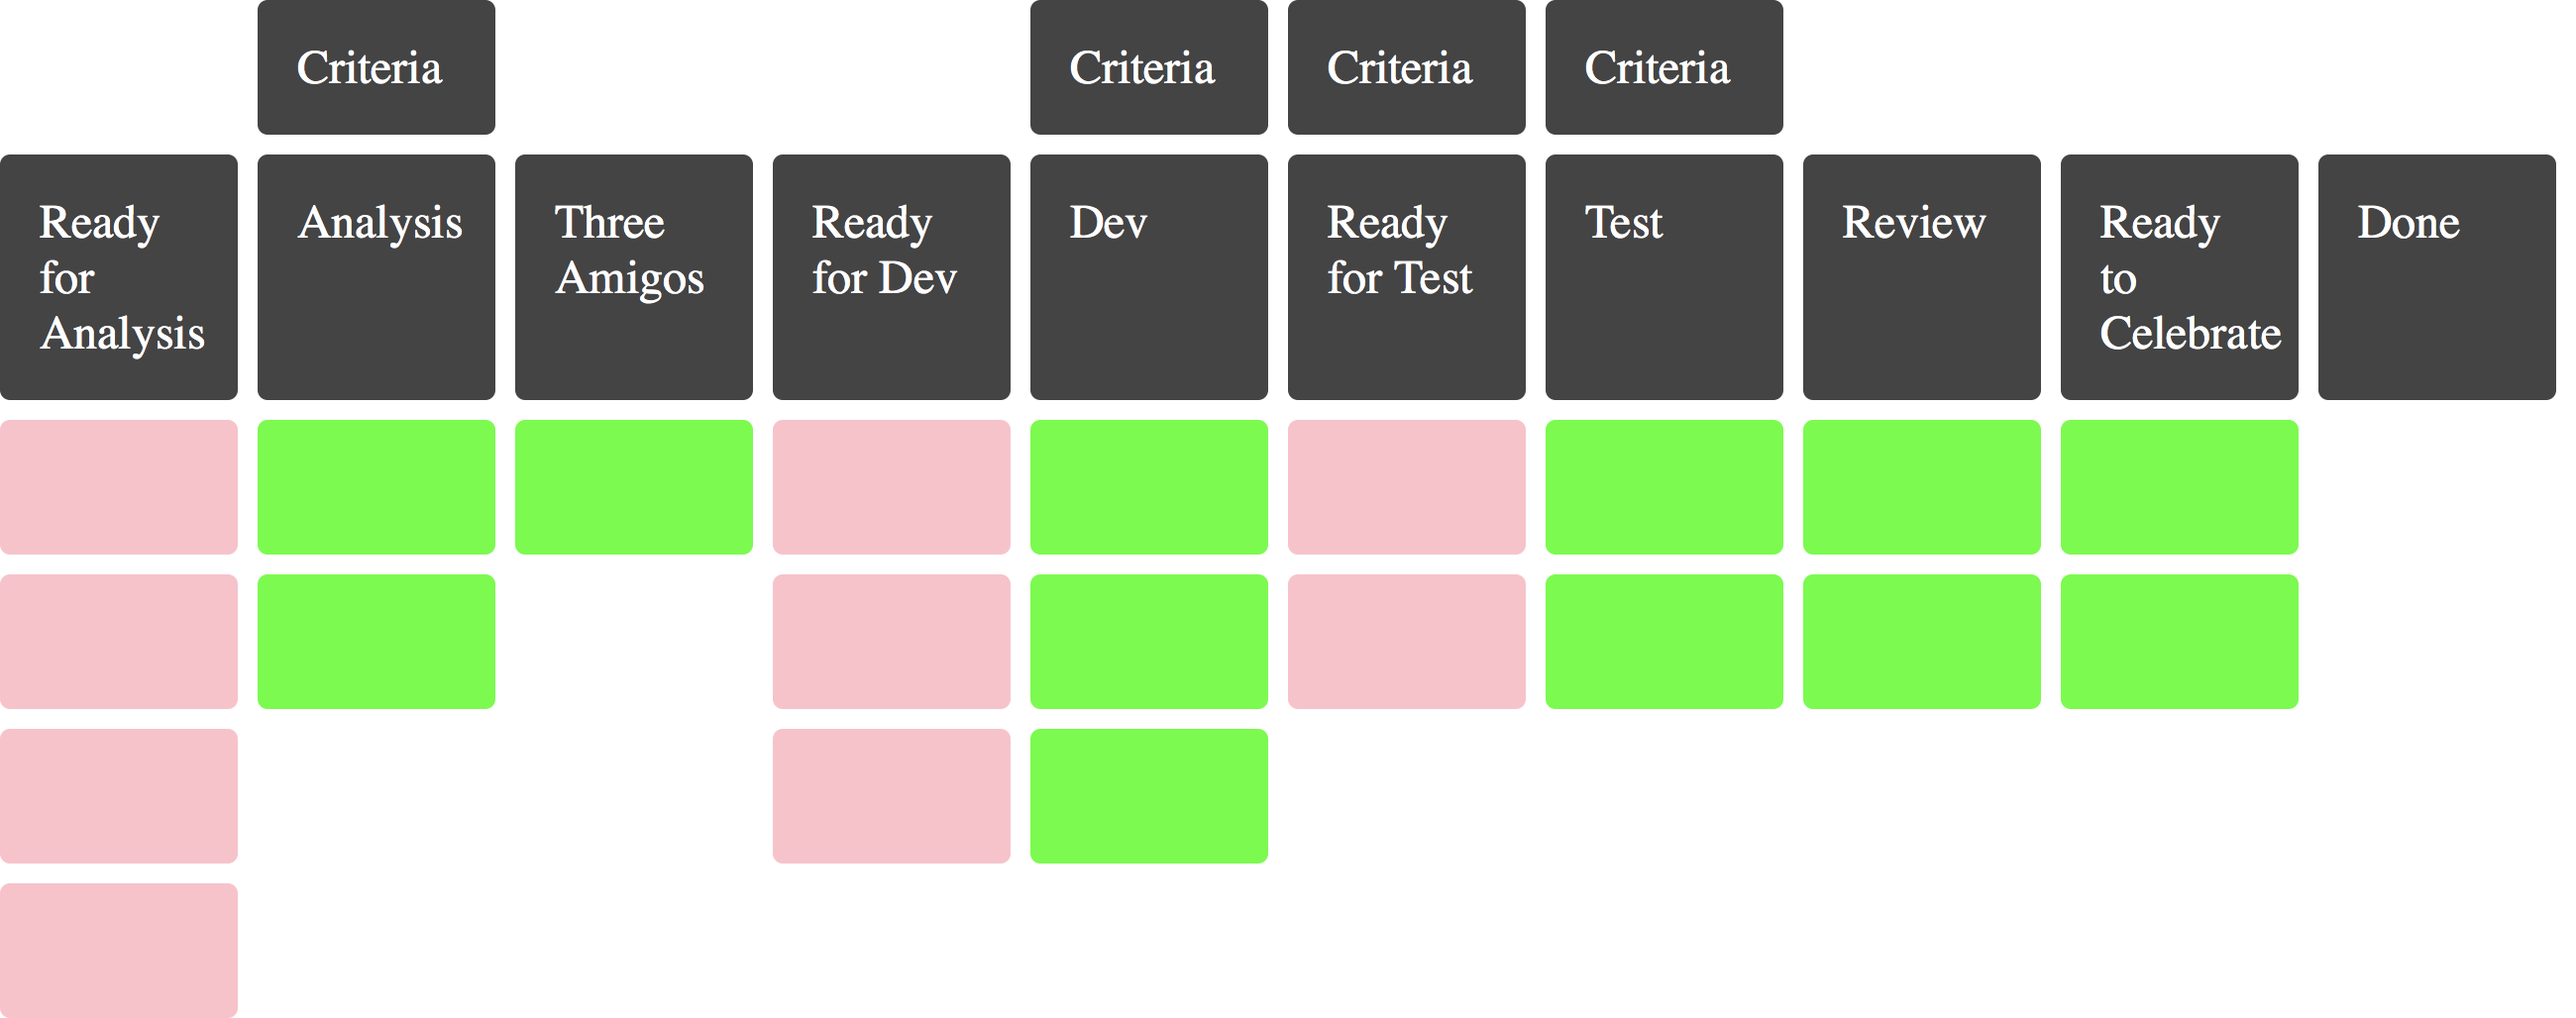
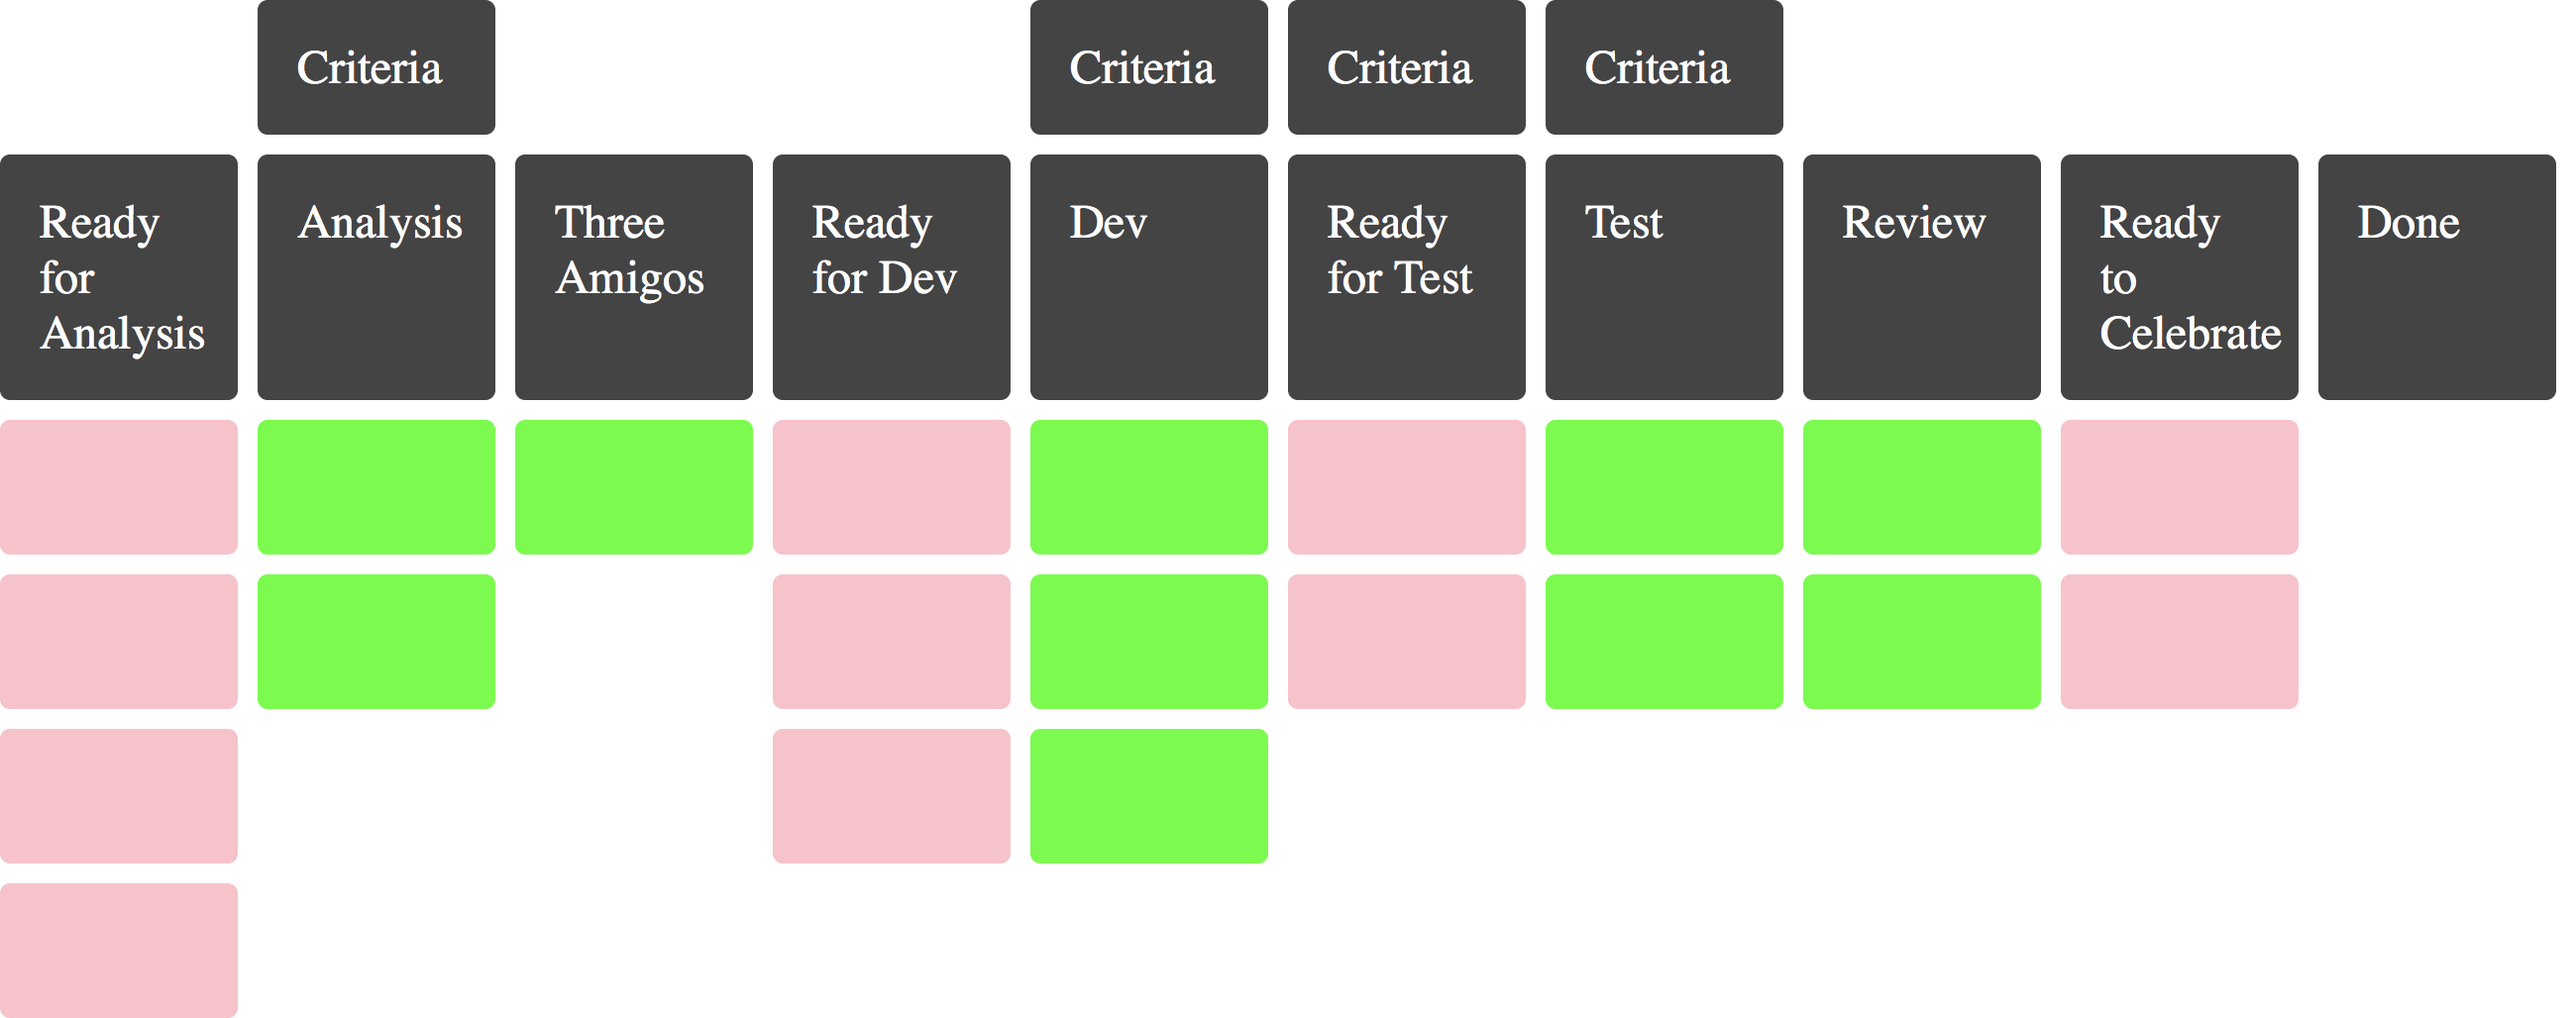
Made ready to celebrate an inactive column

Changed region(s): [[0.7788, 0.4047, 0.9035, 0.716]]

diff --git a/boards/disaster.html b/boards/disaster.html
@@ -116,8 +116,8 @@
     <div class="active-space col-review work1">&nbsp;</div>
     <div class="active-space col-review work2">&nbsp;</div>
 
-    <div class="active-space col-celebrate work1">&nbsp;</div>
-    <div class="active-space col-celebrate work2">&nbsp;</div>
+    <div class="inactive-space col-celebrate work1">&nbsp;</div>
+    <div class="inactive-space col-celebrate work2">&nbsp;</div>
 
 
 

diff --git a/boards/three-amigos.html b/boards/three-amigos.html
@@ -100,8 +100,8 @@
     <div class="active-space col-test work1">&nbsp;</div>
     <div class="active-space col-test work2">&nbsp;</div>
 
-    <div class="ticket col-celebrate work1">&nbsp;</div>
-    <div class="active-space col-celebrate work2">&nbsp;</div>
+    <div class="inactive-space col-celebrate work1">&nbsp;</div>
+    <div class="inactive-space col-celebrate work2">&nbsp;</div>
 
 
 

diff --git a/boards/logjam.html b/boards/logjam.html
@@ -116,8 +116,8 @@
     <div class="ticket col-review work1">Ticket</div>
     <div class="ticket col-review work2">Ticket</div>
 
-    <div class="active-space col-celebrate work1">&nbsp;</div>
-    <div class="active-space col-celebrate work2">&nbsp;</div>
+    <div class="inactive-space col-celebrate work1">&nbsp;</div>
+    <div class="inactive-space col-celebrate work2">&nbsp;</div>
 
 
 

diff --git a/boards/rework.html b/boards/rework.html
@@ -94,8 +94,8 @@
     <div class="blocker col-test work1">Ticket</div>
     <div class="blocker col-test work2">Ticket</div>
 
-    <div class="active-space col-celebrate work1">&nbsp;</div>
-    <div class="active-space col-celebrate work2">&nbsp;</div>
+    <div class="inactive-space col-celebrate work1">&nbsp;</div>
+    <div class="inactive-space col-celebrate work2">&nbsp;</div>
 
 
 

diff --git a/boards/final.html b/boards/final.html
@@ -122,8 +122,8 @@
 
     <div class="inactive-space col-playback work1">&nbsp;</div>
 
-    <div class="active-space col-celebrate work1">&nbsp;</div>
-    <div class="active-space col-celebrate work2">&nbsp;</div>
+    <div class="inactive-space col-celebrate work1">&nbsp;</div>
+    <div class="inactive-space col-celebrate work2">&nbsp;</div>
 
 
 

diff --git a/boards/exit-criteria.html b/boards/exit-criteria.html
@@ -109,7 +109,7 @@
     <div class="active-space col-test work2">&nbsp;</div>
 
     <div class="ticket col-celebrate work1">&nbsp;</div>
-    <div class="active-space col-celebrate work2">&nbsp;</div>
+    <div class="inactive-space col-celebrate work2">&nbsp;</div>
 
 
 

diff --git a/boards/unfinished-work-moving.html b/boards/unfinished-work-moving.html
@@ -101,7 +101,7 @@
     <div class="active-space col-test work2">&nbsp;</div>
 
     <div class="ticket col-celebrate work1">&nbsp;</div>
-    <div class="active-space col-celebrate work2">&nbsp;</div>
+    <div class="inactive-space col-celebrate work2">&nbsp;</div>
 
 
 

diff --git a/boards/ready-to-celebrate.html b/boards/ready-to-celebrate.html
@@ -95,7 +95,7 @@
     <div class="active-space col-test work2">&nbsp;</div>
 
     <div class="ticket col-celebrate work1">&nbsp;</div>
-    <div class="active-space col-celebrate work2">&nbsp;</div>
+    <div class="inactive-space col-celebrate work2">&nbsp;</div>
 
 
 
